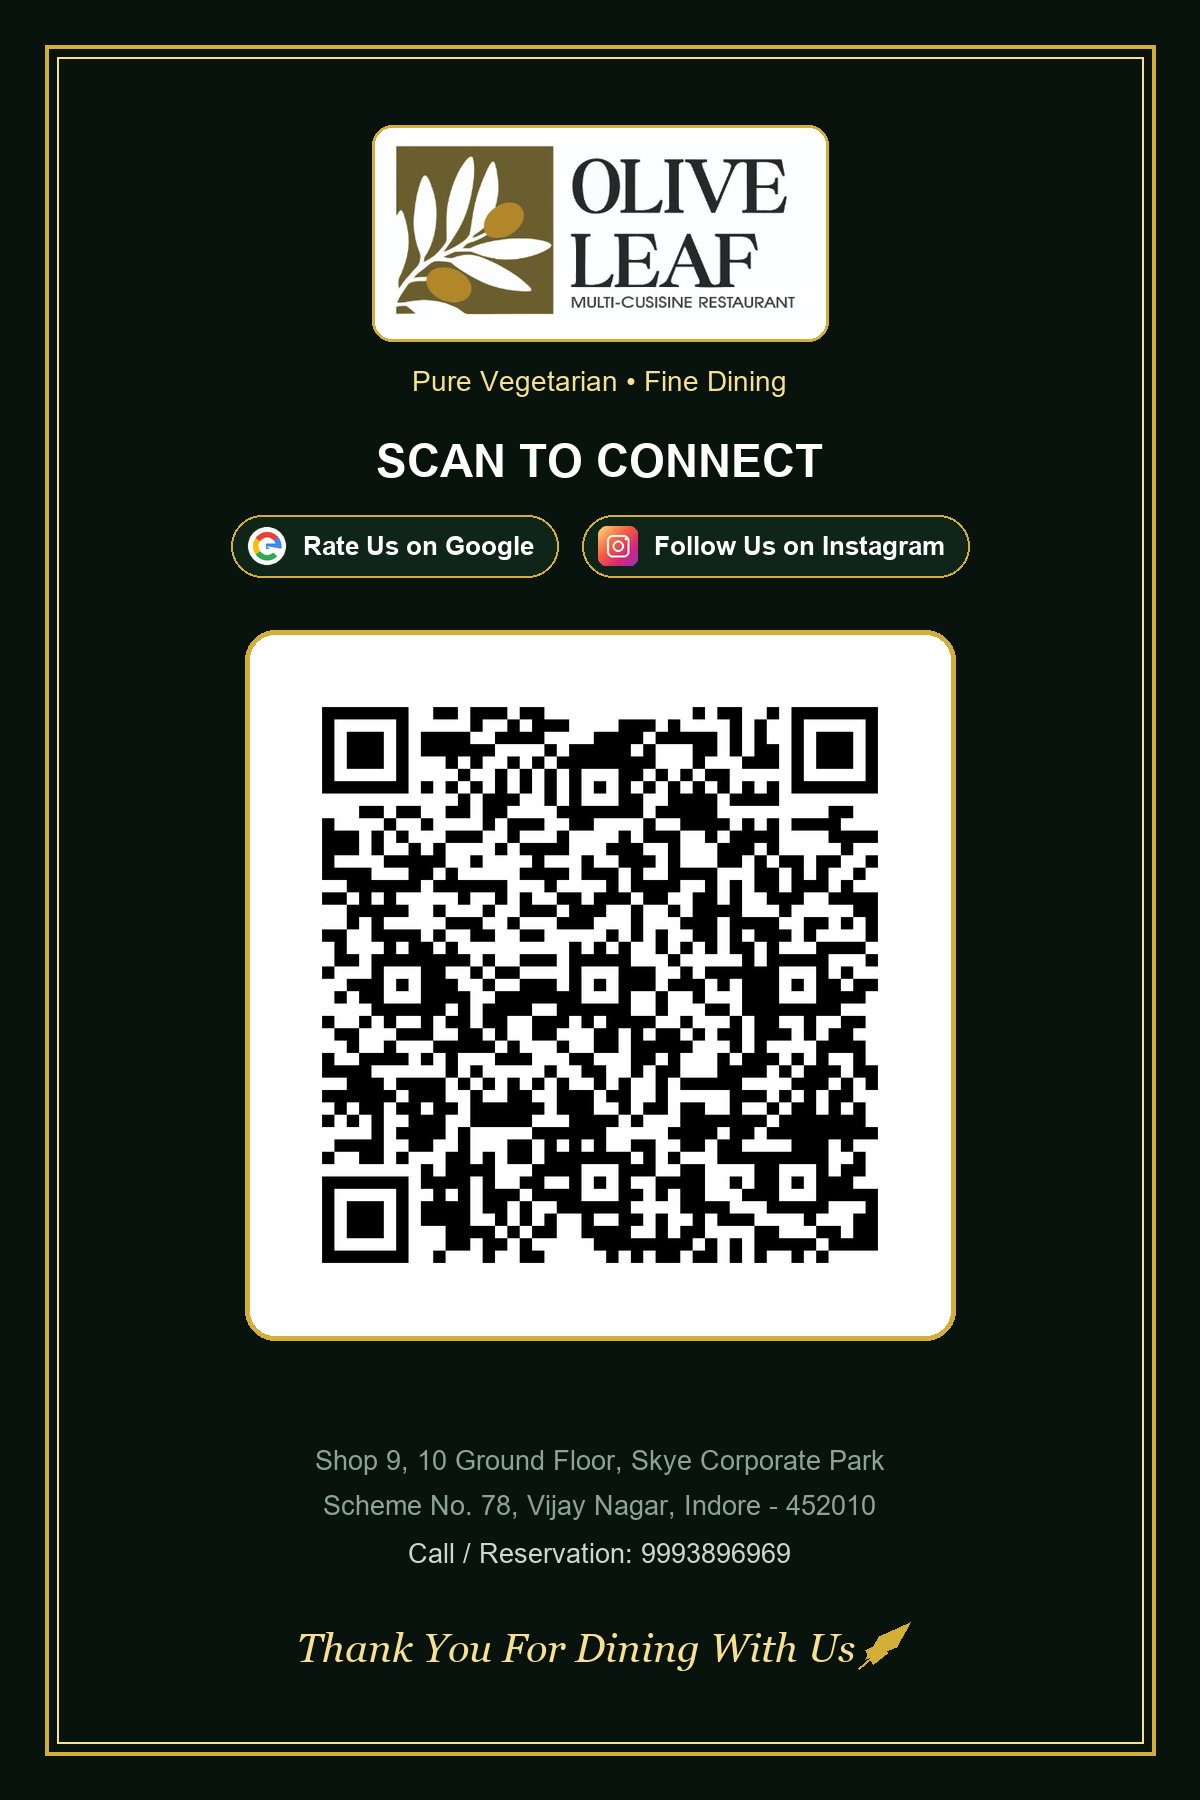
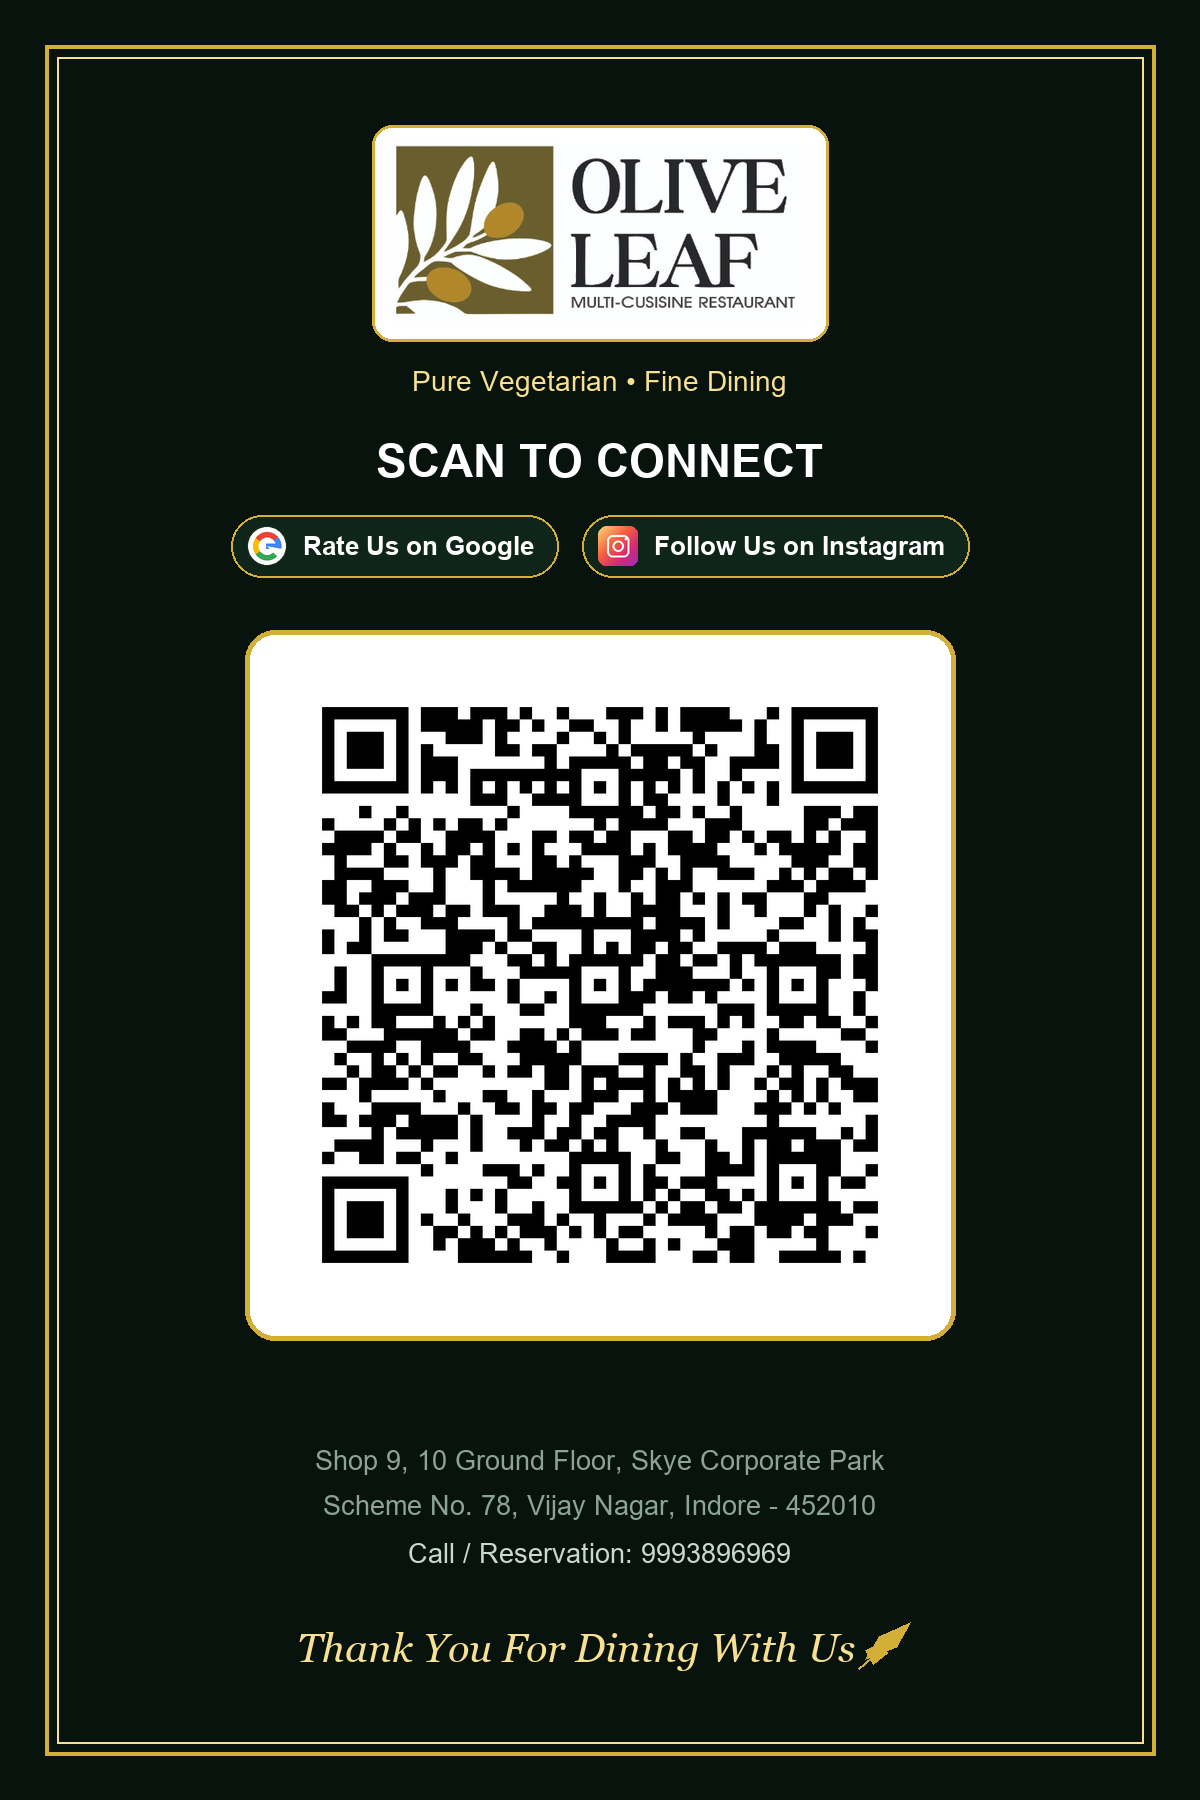
Update repository casing to All-Restaurants-QR- and regenerate standees

Changed region(s): [[0.2467, 0.3733, 0.74, 0.7156]]

diff --git a/28-paarroo/config.js b/28-paarroo/config.js
@@ -44,8 +44,8 @@ var RESTAURANT_CONFIG = {
     footerThanks: "Thank You For Visiting 28 Paarroo 🌴",
     footerCity: "Crafted with care in Indore",
 
-    // 8. Hosted Landing Page URL on all-restaurant-qr-
-    landingPageUrl: "https://namangarg-06.github.io/all-restaurant-qr-/28-paarroo/"
+    // 8. Hosted Landing Page URL on All-Restaurants-QR-
+    landingPageUrl: "https://namangarg-06.github.io/All-Restaurants-QR-/28-paarroo/"
 };
 
 if (typeof module !== 'undefined' && module.exports) {

diff --git a/olive-leaf/config.js b/olive-leaf/config.js
@@ -42,8 +42,8 @@ var RESTAURANT_CONFIG = {
     footerThanks: "Thank You For Dining With Us 🌿",
     footerCity: "Crafted with care in Indore",
 
-    // 8. Hosted Landing Page URL on all-restaurant-qr-
-    landingPageUrl: "https://namangarg-06.github.io/all-restaurant-qr-/olive-leaf/"
+    // 8. Hosted Landing Page URL on All-Restaurants-QR-
+    landingPageUrl: "https://namangarg-06.github.io/All-Restaurants-QR-/olive-leaf/"
 };
 
 if (typeof module !== 'undefined' && module.exports) {

diff --git a/new_restaurant.py b/new_restaurant.py
@@ -1,5 +1,5 @@
 """
-Quick Restaurant Creator for all-restaurant-qr- Hub
+Quick Restaurant Creator for All-Restaurants-QR- Hub
 Usage:
     python new_restaurant.py "Restaurant Name"
 Example:
@@ -81,7 +81,7 @@ var RESTAURANT_CONFIG = {{
     footerThanks: "Thank You For Dining With Us ✨",
     footerCity: "Crafted with care in Indore",
 
-    landingPageUrl: "https://namangarg-06.github.io/all-restaurant-qr-/{slug}/"
+    landingPageUrl: "https://namangarg-06.github.io/All-Restaurants-QR-/{slug}/"
 }};
 
 if (typeof module !== 'undefined' && module.exports) {{

diff --git a/28-paarroo/generate_qr.py b/28-paarroo/generate_qr.py
@@ -20,7 +20,7 @@ def load_config():
         "restaurantName": "28 Paarroo",
         "tagline": "SOUTH INDIAN & MULTI-CUISINE • PURE VEG",
         "qrMode": "dual_link",
-        "landingPageUrl": "https://namangarg-06.github.io/all-restaurant-qr-/28-paarroo/",
+        "landingPageUrl": "https://namangarg-06.github.io/All-Restaurants-QR-/28-paarroo/",
         "googleReviewLink": "https://share.google/ao3kZ8lE7ug4gjlHP",
         "instagramLink": "https://www.instagram.com/28paarroo?stkn=MTI4Y2NwcW5iNTRl",
         "phoneNumber": "9055966555",

diff --git a/olive-leaf/generate_qr.py b/olive-leaf/generate_qr.py
@@ -20,7 +20,7 @@ def load_config():
         "restaurantName": "Olive Leaf",
         "tagline": "PURE VEGETARIAN • FINE DINING",
         "qrMode": "dual_link",
-        "landingPageUrl": "https://namangarg-06.github.io/all-restaurant-qr-/olive-leaf/",
+        "landingPageUrl": "https://namangarg-06.github.io/All-Restaurants-QR-/olive-leaf/",
         "googleReviewLink": "https://share.google/CAuKpe2Po706mPhkI",
         "instagramLink": "https://www.instagram.com/oliveleafindore?stkn=MXduZGk2ZzU3emZjdw==",
         "phoneNumber": "9993896969",

diff --git a/README.md b/README.md
@@ -2,7 +2,7 @@
 
 Is platform par aap ek hi GitHub repository me **multiple restaurants** ke luxury QR codes, mobile landing pages aur printable table standees manage kar sakte hain.
 
-👉 **GitHub Pages URL:** `https://namangarg-06.github.io/all-restaurant-qr-/`
+👉 **GitHub Pages URL:** `https://namangarg-06.github.io/All-Restaurants-QR-/`
 
 ---
 
@@ -11,7 +11,7 @@ Is platform par aap ek hi GitHub repository me **multiple restaurants** ke luxur
 Har restaurant ka apna **alag self-contained folder** hai. Kisi ek restaurant me change karne par **kisi dusre restaurant par 0% asar hoga**:
 
 ```
-all-restaurant-qr-/
+All-Restaurants-QR-/
 ├── index.html                   # Master Hub Directory (Saare restaurants ka portal)
 ├── new_restaurant.py            # Naya restaurant 5 second me add karne ka script
 ├── 28-paarroo/                  # 🌴 28 Paarroo (Old Palasia, Indore)
